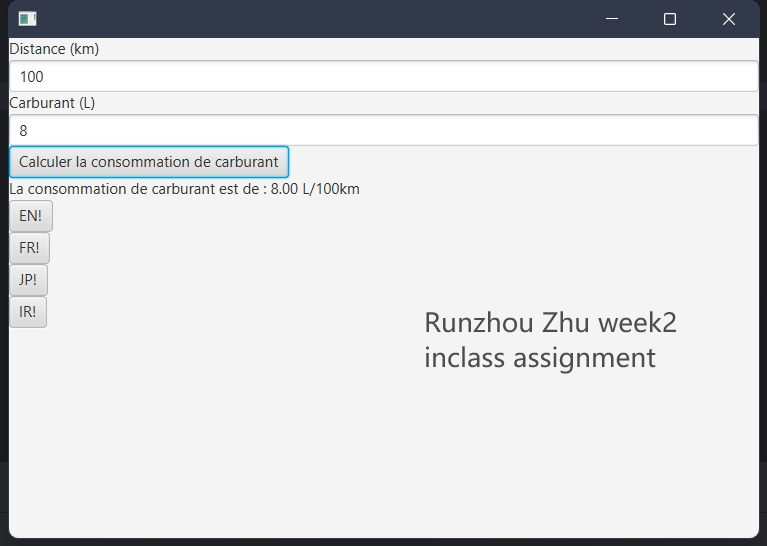
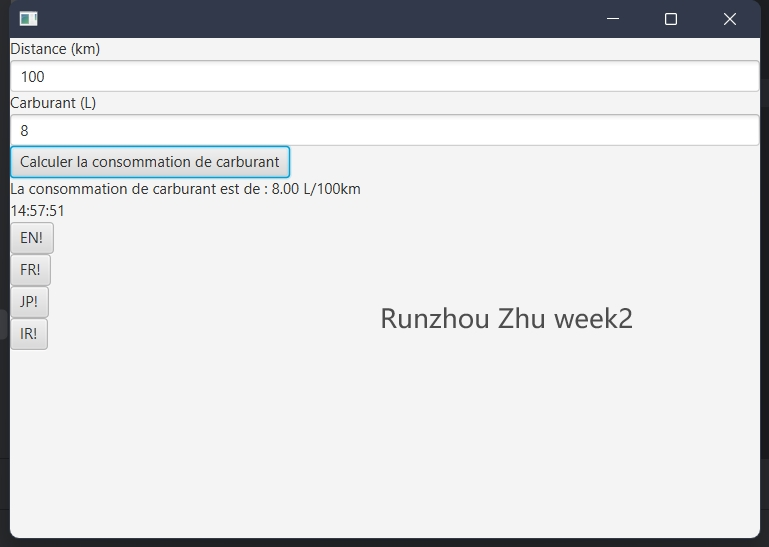
123

diff --git a/sep2_inclass_assignments_week2/src/main/java/controller/HelloController.java b/sep2_inclass_assignments_week2/src/main/java/controller/HelloController.java
@@ -7,6 +7,10 @@ import javafx.scene.control.Label;
 import javafx.scene.control.TextField;
 
 import java.text.DecimalFormat;
+import java.time.LocalTime;
+import java.time.ZoneId;
+import java.time.ZonedDateTime;
+import java.time.format.DateTimeFormatter;
 import java.util.Locale;
 import java.util.MissingResourceException;
 import java.util.ResourceBundle;
@@ -19,11 +23,14 @@ public class HelloController {
     @FXML private Button btnCalculate;
     @FXML private TextField txtDistance;
     @FXML private TextField txtFuel;
+    @FXML private Label localTime;
 
     ResourceBundle rb;
 
     public void initialize() {
         setLanguage(new Locale.Builder().setLanguage("en").setRegion("US").build());
+
+        setLocalTime(localTime, ZonedDateTime.now());
     }
 
 
@@ -63,18 +70,28 @@ public class HelloController {
 
     public void onENClick(ActionEvent event) {
         setLanguage(new Locale.Builder().setLanguage("en").setRegion("US").build());
+        setLocalTime(localTime, ZonedDateTime.now(ZoneId.of("America/New_York")));
     }
 
     public void onFRClick(ActionEvent event) {
         setLanguage(new Locale.Builder().setLanguage("fr").setRegion("FR").build());
+        setLocalTime(localTime, ZonedDateTime.now(ZoneId.of("Europe/Paris")));
     }
 
     public void onJPClick(ActionEvent event) {
         setLanguage(new Locale.Builder().setLanguage("ja").setRegion("JP").build());
+        setLocalTime(localTime, ZonedDateTime.now(ZoneId.of("Asia/Tokyo")));
     }
 
     public void onIRClick(ActionEvent event) {
         setLanguage(new Locale.Builder().setLanguage("fa").setRegion("IR").build());
+        setLocalTime(localTime, ZonedDateTime.now(ZoneId.of("Asia/Dubai")));
+    }
+
+    private void setLocalTime(Label label, ZonedDateTime zonedDateTime) {
+        DateTimeFormatter formatter = DateTimeFormatter.ofPattern("HH:mm:ss");
+        String formattedTime = zonedDateTime.format(formatter);
+        label.setText(formattedTime);
     }
 
     private void setLanguage(Locale locale) {
